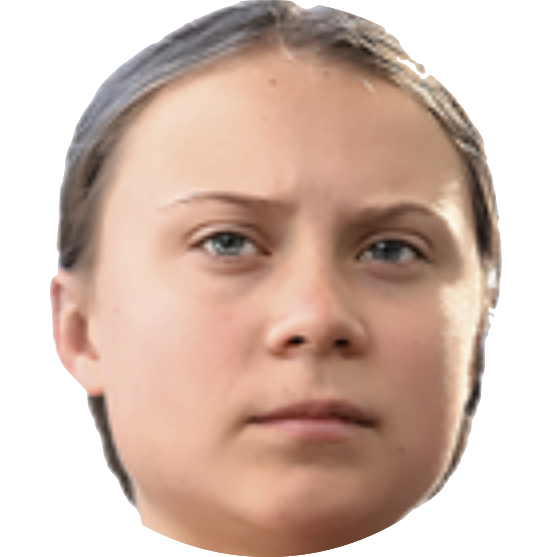
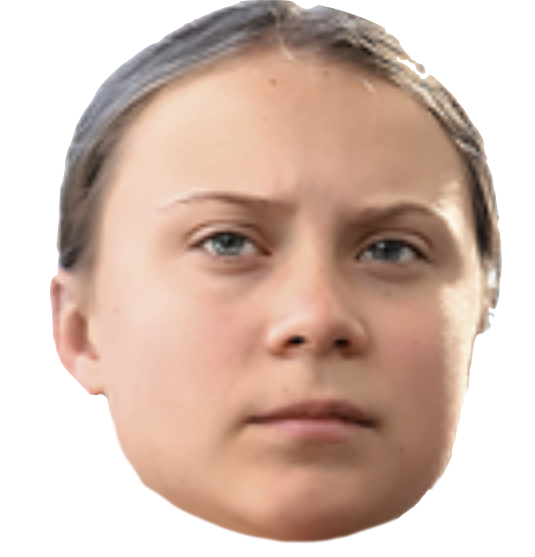
Changed popup slightly

Changed region(s): [[0.1495, 0.702, 0.7776, 1.0], [0.8075, 0.5799, 0.9271, 0.8851], [0.7776, 0.8851, 0.8075, 0.9156]]

diff --git a/popup.html b/popup.html
@@ -46,16 +46,14 @@
 
   <div id="section2" class="section2">
     <div class="yangScorecardTitle">
-      <h2 id="scorecardTitle" class="yangMeterTitle">Greta meter</h1>
-        <i class="fa fa-address-card" id="cardIcon"></i>
+      <h2 id="scorecardTitle" class="yangMeterTitle">Greta Meter</h2>
     </div>
-
     <div id="progressBar" class="progressBar">
       <progress id="progress-bar-yangness" max="100" value="0" class="html5 bar shadow zigZag"></progress>
       <img class="progressBarImg" id="progessBarImg" src="progressFaces/GretaFace.png" />
 
       <div id="belowProgessBar" class="belowProgressBarText">
-        <div id="yangCaption" class="yangCaption">Greta Says No</div>
+        <div id="yangCaption" class="yangCaption">Greta Says: How Dare You</div>
         <div id="yangPercentage" class="yangPercentage">25 🌱</div>
         <!-- <div id="yangDes" class="yangDes">This page has 0 yangs</div> -->
 

diff --git a/popup.js b/popup.js
@@ -122,7 +122,6 @@
 
 document.addEventListener('DOMContentLoaded', function () {
 
-  document.getElementById('yangCaption').innerText="TRYYY";
   function getAjax(url, success) {
     var xhr = window.XMLHttpRequest ? new XMLHttpRequest() : new ActiveXObject('Microsoft.XMLHTTP');
     // xhr.responseType = 'json';
